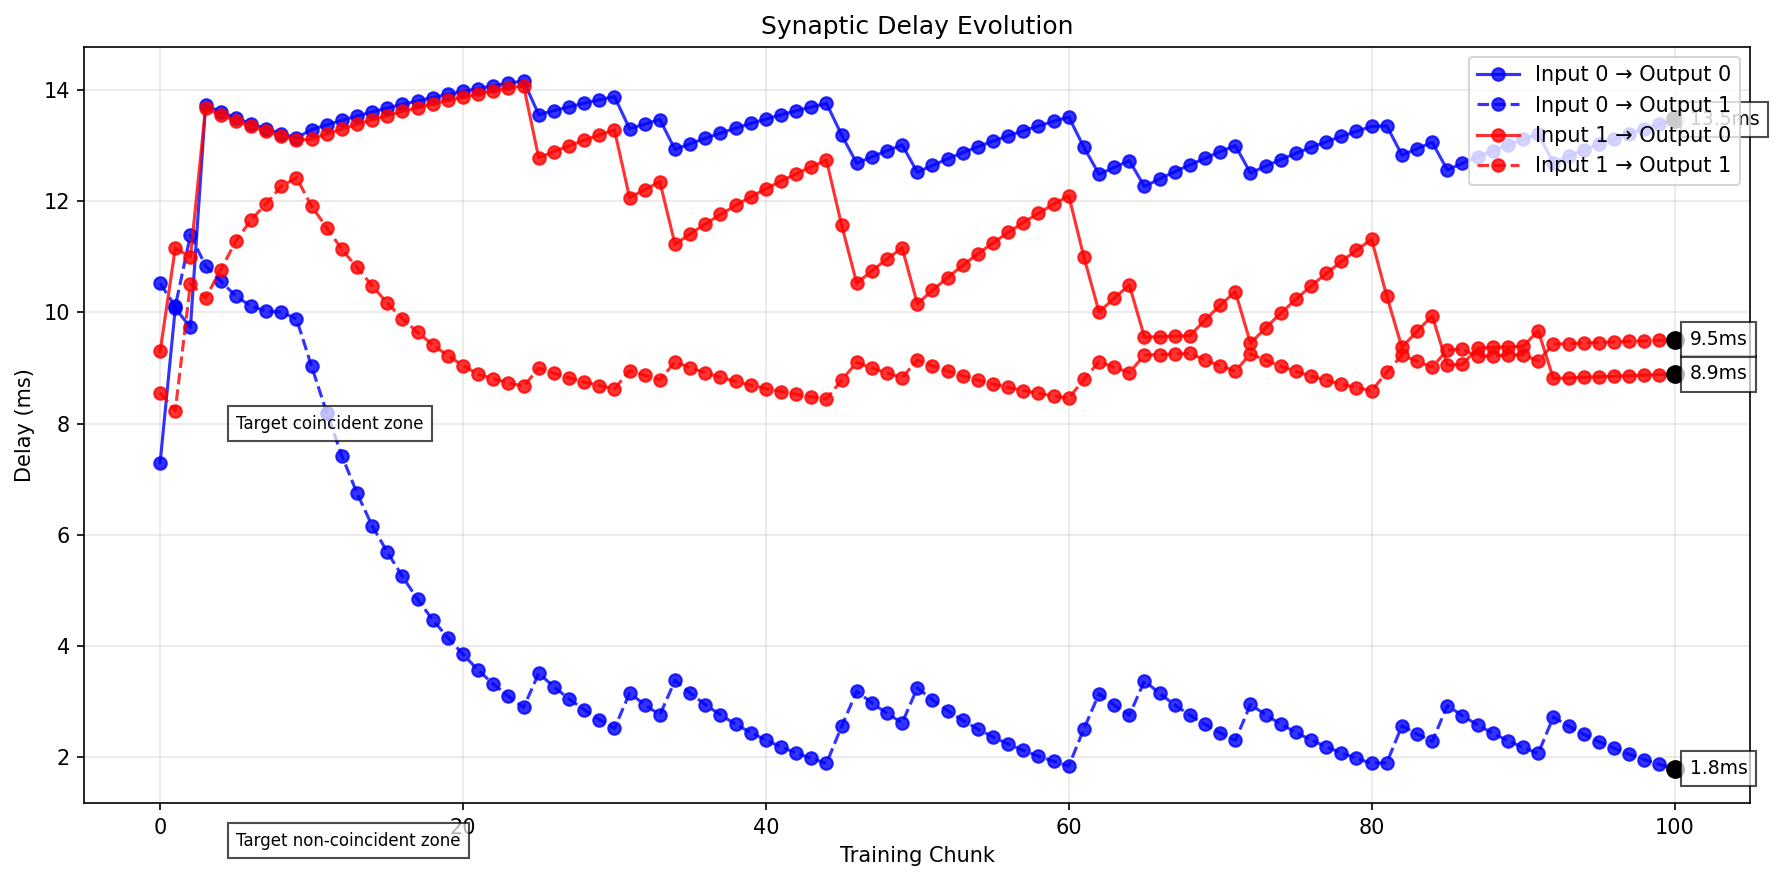
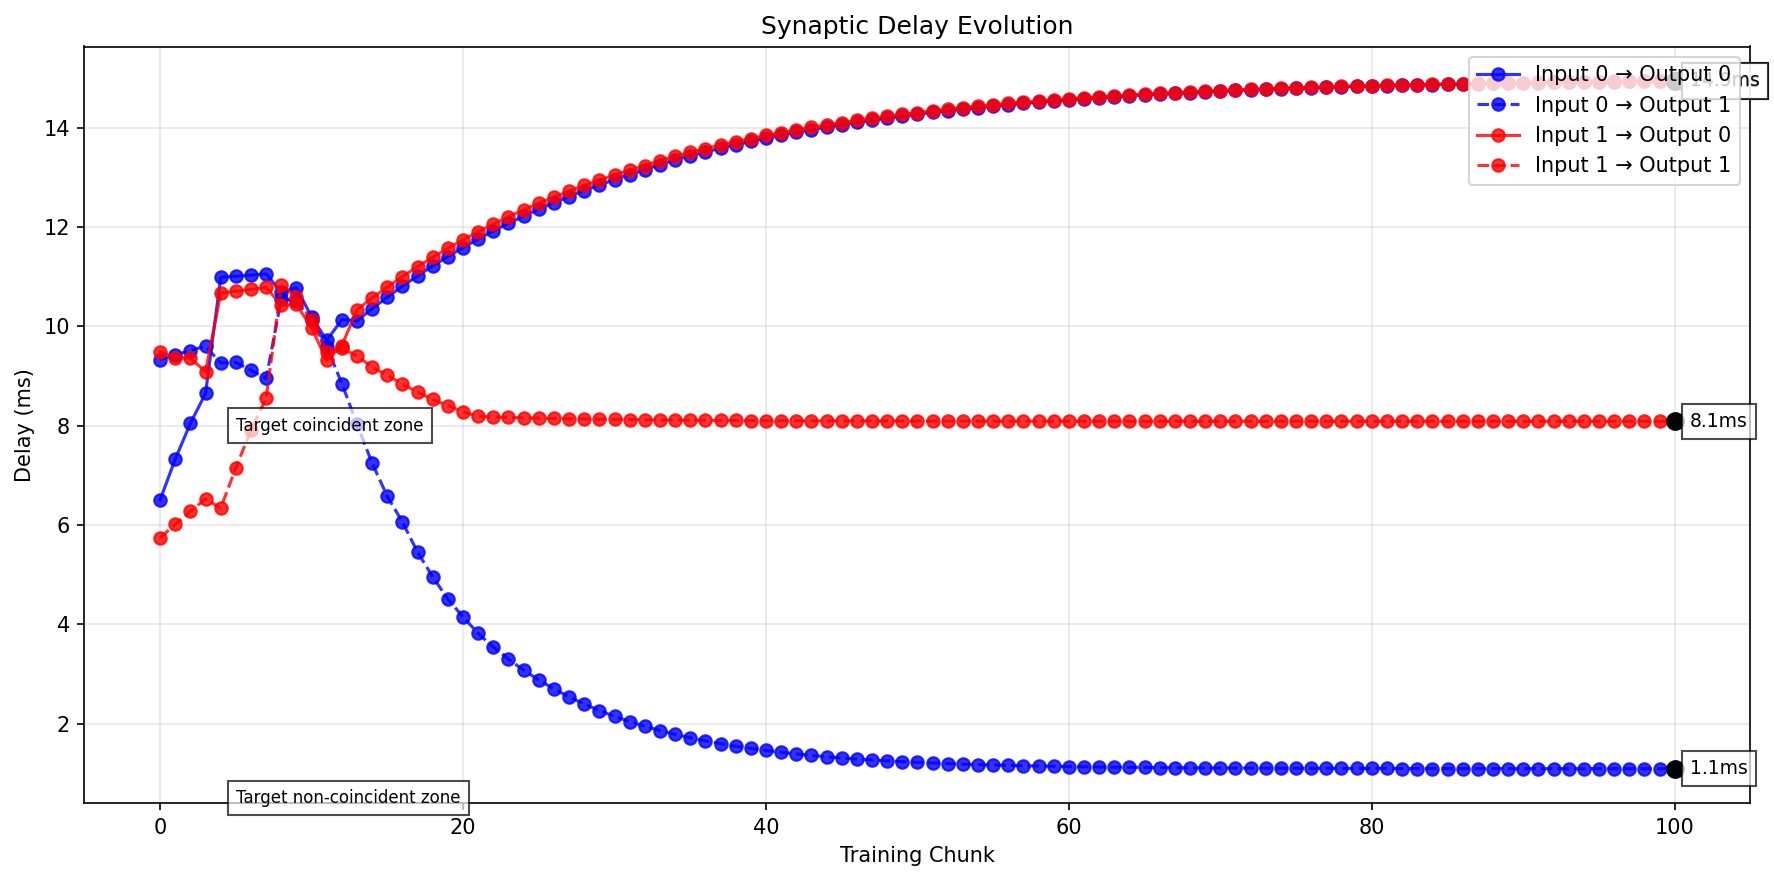
final touch ups

diff --git a/stdp&delay/stdp_delay.py b/stdp&delay/stdp_delay.py
@@ -706,10 +706,7 @@ def run_chunked_simulation(config, num_chunks=10, patterns_per_chunk=10):
         ('input_1', 'output_0'): initial_weights[1] * (1 + np.random.uniform(-weight_jitter, weight_jitter)),
         ('input_1', 'output_1'): initial_weights[1] * (1 + np.random.uniform(-weight_jitter, weight_jitter))
     }
-    
-    # Initialize accuracy tracking
-    accuracy_history = []
-    best_accuracy = 0.0
+       
     stable_count = 0
     
     for key in delay_history:
@@ -846,61 +843,11 @@ def run_chunked_simulation(config, num_chunks=10, patterns_per_chunk=10):
         for key in weight_history:
             weight_history[key].append(weights[key])
         
-        # Calculate response differential (how much more a neuron responds to its preferred pattern)
-        if neuron0_prefers_pattern0 and neuron1_prefers_pattern1:
-            # Pattern 0->0, 1->1 specialization
-            # Calculate based on actual response rates not just differential
-            # This ensures that high absolute response rates contribute to higher accuracy
-            positive_responses = (pattern_responses['output_0']['pattern_0'] + pattern_responses['output_1']['pattern_1'])/2
-            negative_avoidance = (1.0 - pattern_responses['output_0']['pattern_1'] + 1.0 - pattern_responses['output_1']['pattern_0'])/2
-            current_accuracy = (positive_responses + negative_avoidance)/2
-            
-            # Bonus for perfect classification (1.0 response to preferred, 0.0 to non-preferred)
-            if pattern_responses['output_0']['pattern_0'] > 0.9 and pattern_responses['output_0']['pattern_1'] < 0.1 and \
-               pattern_responses['output_1']['pattern_1'] > 0.9 and pattern_responses['output_1']['pattern_0'] < 0.1:
-                current_accuracy = min(1.0, current_accuracy + 0.3)
-        elif neuron0_prefers_pattern1 and neuron1_prefers_pattern0:
-            # Pattern 1->0, 0->1 specialization
-            # Calculate based on actual response rates not just differential
-            positive_responses = (pattern_responses['output_0']['pattern_1'] + pattern_responses['output_1']['pattern_0'])/2
-            negative_avoidance = (1.0 - pattern_responses['output_0']['pattern_0'] + 1.0 - pattern_responses['output_1']['pattern_1'])/2
-            current_accuracy = (positive_responses + negative_avoidance)/2
-            
-            # Bonus for perfect classification (1.0 response to preferred, 0.0 to non-preferred)
-            if pattern_responses['output_0']['pattern_1'] > 0.9 and pattern_responses['output_0']['pattern_0'] < 0.1 and \
-               pattern_responses['output_1']['pattern_0'] > 0.9 and pattern_responses['output_1']['pattern_1'] < 0.1:
-                current_accuracy = min(1.0, current_accuracy + 0.3)
-        else:
-            # Single neuron specialization - use the stronger specialization
-            # Also consider actual response rates for single neuron specialization
-            spec0_pattern0_accuracy = (pattern_responses['output_0']['pattern_0'] + (1.0 - pattern_responses['output_0']['pattern_1']))/2
-            spec1_pattern1_accuracy = (pattern_responses['output_1']['pattern_1'] + (1.0 - pattern_responses['output_1']['pattern_0']))/2
-            spec0_pattern1_accuracy = (pattern_responses['output_0']['pattern_1'] + (1.0 - pattern_responses['output_0']['pattern_0']))/2
-            spec1_pattern0_accuracy = (pattern_responses['output_1']['pattern_0'] + (1.0 - pattern_responses['output_1']['pattern_1']))/2
-            
-            current_accuracy = max(
-                spec0_pattern0_accuracy,
-                spec1_pattern1_accuracy,
-                spec0_pattern1_accuracy,
-                spec1_pattern0_accuracy
-            ) * 0.9  # Less penalty for single neuron specialization
-        
-        print(f"  Current accuracy: {current_accuracy:.2f}")
         print(f"  Response rates:")
         print(f"  Output0 to Pattern0: {pattern_responses['output_0']['pattern_0']:.2f}")
         print(f"  Output0 to Pattern1: {pattern_responses['output_0']['pattern_1']:.2f}")
         print(f"  Output1 to Pattern0: {pattern_responses['output_1']['pattern_0']:.2f}")
         print(f"  Output1 to Pattern1: {pattern_responses['output_1']['pattern_1']:.2f}")
-        
-        # Track accuracy history
-        accuracy_history.append(current_accuracy)
-        
-        # Update best accuracy
-        if current_accuracy > best_accuracy:
-            best_accuracy = current_accuracy
-            stable_count = 0
-        else:
-            stable_count += 1
 
         all_pairs = find_spike_pairs(
             populations, 
@@ -1036,37 +983,17 @@ def run_chunked_simulation(config, num_chunks=10, patterns_per_chunk=10):
         'pattern_responses': pattern_responses,
         'response_history': response_history,
         'final_delays': current_delays,
-        'accuracy_history': accuracy_history,
         'stable_count': stable_count,
         'best_accuracy': best_accuracy
     }
 
 if __name__ == "__main__":
-    # Update main parameters to optimize combined learning
-    config = init_delay_learning(
-        # Increase number of presentations per pattern for better learning
-        num_presentations=10,
-        # Stronger STDP learning rates
-        B_plus=0.35,  
-        B_minus=0.30,
-        # Stronger competitive modulation
-        modulation_const=0.20,
-        # Stronger initial weights for better responsiveness
-        weights=(0.25, 0.25),
-        # Balanced inhibition for better competition
-        inh_weight=1.2,
-        # Faster inhibition for quicker competition
-        inh_delay=0.8,
-        # Random seed for reproducibility
-        seed=42
-    )
+    config = init_delay_learning()
     
-    # Run simulation with more chunks for better learning
     results = run_chunked_simulation(
         config, 
         num_chunks=100,
         patterns_per_chunk=10
     )
     
-    # Save the visualization with an identifiable name
     save_all_visualizations(results, "stdp_and_delay")

diff --git a/stdp&delay/visualisation_and_metrics.py b/stdp&delay/visualisation_and_metrics.py
@@ -90,7 +90,7 @@ def plot_delay_evolution(delay_history, save_path=None, chunk_modes=None):
         for i, mode in enumerate(chunk_modes):
             if mode == "TRAINING":
                 ax.axvspan(i-0.4, i+0.4, color='lightblue', alpha=0.2)
-            else:  # TESTING
+            else:
                 ax.axvspan(i-0.4, i+0.4, color='lightgray', alpha=0.2)
     
     # Plot delay evolution with transparency

diff --git a/just_delay/visualisation_and_metrics.py b/just_delay/visualisation_and_metrics.py
@@ -7,7 +7,7 @@ def plot_combined_membrane_potentials(vm_traces, v_thresh=-52.5, save_path=None)
         print("Warning: No membrane potential data available for plotting")
         return None, None
     
-    neuron_colors = ['#1f77b4', '#ff7f0e']  # Blue for output 0, orange for output 1
+    neuron_colors = ['#1f77b4', '#ff7f0e']
     
     fig, ax = plt.subplots(figsize=(14, 8))
     
